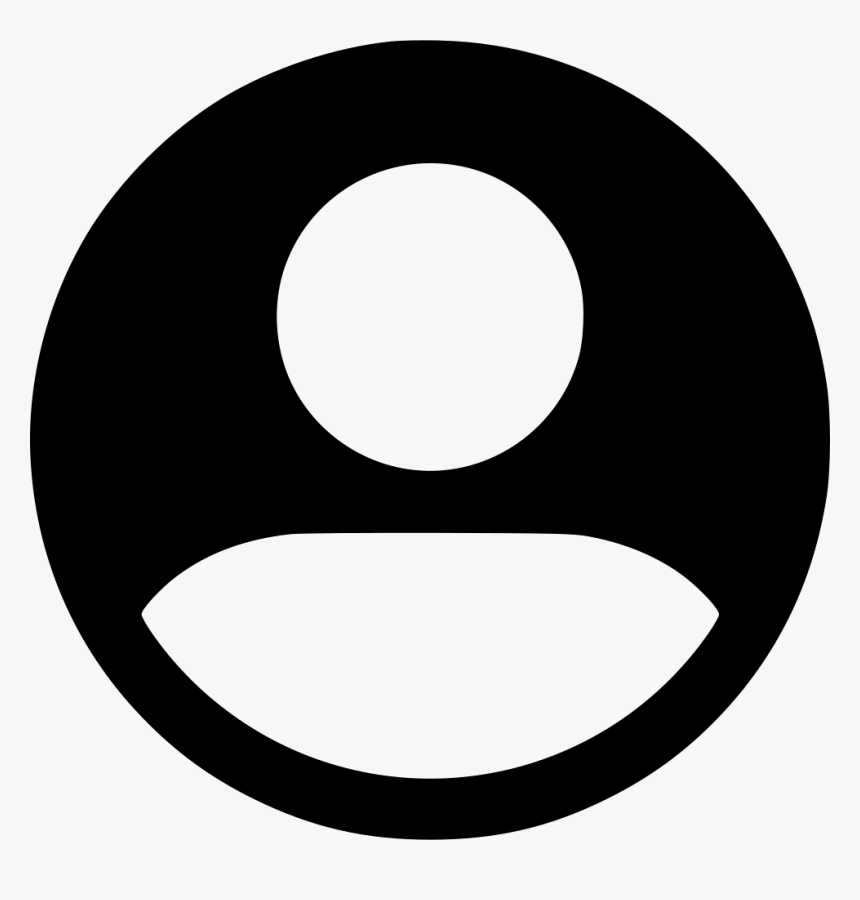
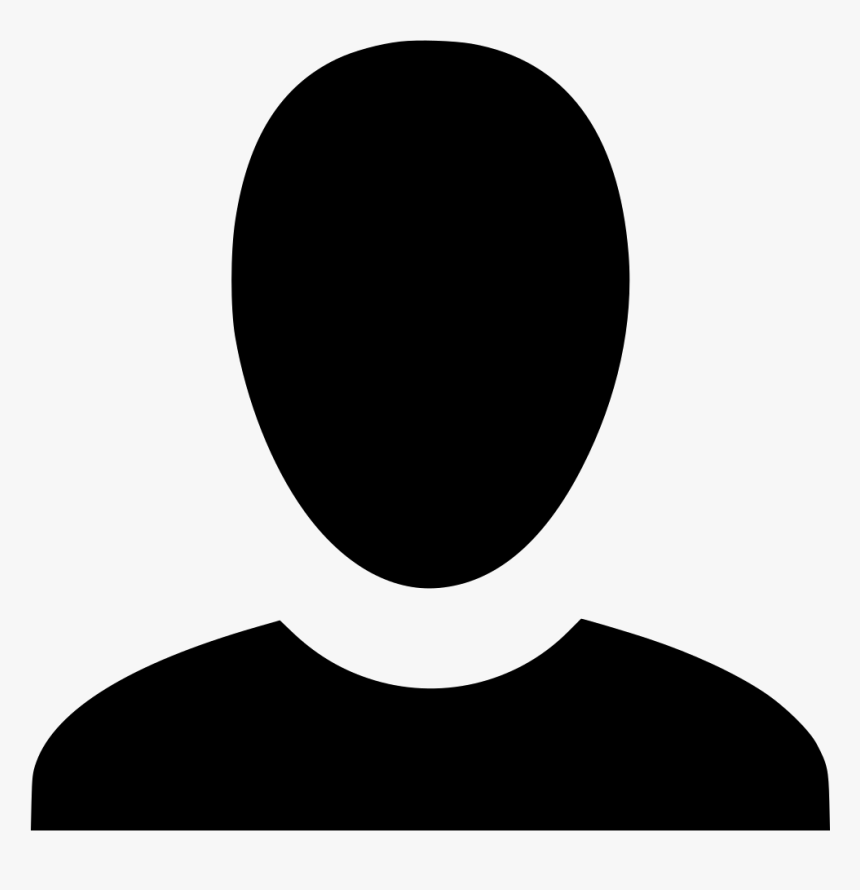
login con usuarios

diff --git a/src/components/Friends.js b/src/components/Friends.js
@@ -1,34 +1,9 @@
-import React,{useState, useEffect, Component} from 'react';
+import React,{Component} from 'react';
 import '../css/main.css'
 import Friend from './Friend';
 import firebase from '../config/firebase'
 
 class Friends extends Component {
-/*useEffect(() => {
-    fetchFriends()
-    .then(
-        (error) => {
-            console.log(error)
-        }
-    )},[]);
-    
-    const [friends, setFriends] = useState([]);
-    const [isLoaded, setIsLoaded] = useState(false)
-    
-    const fetchFriends = async () => {
-    const data = await fetch('https://my-json-server.typicode.com/angelrosmend/utn-friendlist/contacts');
-    
-    const friends = await data.json();
-    console.log(friends);
-    setFriends(friends);
-    setIsLoaded(true)
-    }
-
-    if(!isLoaded){
-        return (
-            <div className="loading">Loading...</div>
-        )
-    }else{    }*/
     constructor(props) {
         super(props)
     
@@ -38,38 +13,38 @@ class Friends extends Component {
         }
     }
     componentDidMount(){
-        firebase.database().ref('contacts/').once('value').then(snapshot=>{
-            console.log(snapshot.val())
+        firebase.db.collection("usuarios")
+        .get()
+        .then(querySnapshot =>{
+            console.log("loaded", querySnapshot.docs);
             this.setState({
-                friends: snapshot.val(),
+                friends: querySnapshot.docs,
                 isLoaded: true
             })
+
         })
     }
     render() {
+    const  loaded = this.state.isLoaded
+     if(!loaded){
+            return <div className="loading">Loading...</div>
+        }else{
+
     return (
         <div className="container-friends">
-           <div className="title">
+            <div className="title">
                 <h3>Compañeros</h3>
                 <hr></hr>
-<<<<<<< HEAD
             </div>
             <div className="friends-list">
-                {Object.keys(this.state.friends).map((k,v)=> (<Friend key={this.state.friends[k]} data={this.state.friends[k]}/>))}
-               {/* <ul>{friends.map(data => (<Friend key={data.id} data={data}/>))}</ul>*/}
+                {this.state.friends.map((doc)=> (<Friend id={doc.id} data={doc.data()}/>))}
             </div>
-=======
-           </div>
-           <div className="friends-list">
-                <ul>{friends.map(data => (<Friend key={data.id} data={data}/>))}</ul>
-           </div>
->>>>>>> 12c7898d873104f1923c9d56764a0489f9045157
         </div>
     )
-
-    }
-
+ }
+ }
 }
+
 
 
 export default Friends

diff --git a/src/layout/ProfileFriend.js b/src/layout/ProfileFriend.js
@@ -1,34 +1,33 @@
 import React,{useState, useEffect} from 'react';
+import firebase from 'firebase'
 import '../css/main.css'
+import avatar from '../img/avatar.png'
 
 
-function ProfileFriend({ match }) {
-    useEffect(() => {
-        fetchFriend();
-        console.log(match);
-       },[]);
+function ProfileFriend(props) {
+    const [friend, setFriend] = useState({})
+
+
+    useEffect(
+        () => {
+        const id = props.match.params.id;
+        firebase.db.doc("usuarios/"+id)
+        .get()
+        .then(doc =>{
+            setFriend( doc.data() )
+            console.log(doc.data())
+        })
+       },[]); 
       
-       const [friend, setFriend] = useState({})
-      
-       const fetchFriend = async () => {
-          const fetchFriend = await fetch(
-         `https://my-json-server.typicode.com/angelrosmend/utn-friendlist/contacts/${
-          match.params.id
-         }`
-        );
-        const friend = await fetchFriend.json();
-        setFriend(friend);
-        console.log(friend);
-       }
-
-
-
+       
  return (
   <div className="container-home">
   <div className="friend-profile">
-      <img src={friend.avatar}/>
-       <h2>{friend.nombre}</h2>
+      <img src={avatar}/>
+       <h2>{friend.nombre}
+          {friend.apellido}</h2>
        <p>{friend.ciudad}</p>
+       <p>Email: {friend.email}</p>
   </div>
   <div className="container-nav-page">
   <div className="container-profile-friend">
@@ -66,8 +65,8 @@ function ProfileFriend({ match }) {
 </div>
 
 </div>
-   </div>
-  </div>
+</div>
+</div>
  )
 }
 

diff --git a/src/layout/SignUp.js b/src/layout/SignUp.js
@@ -29,6 +29,8 @@ function handleSubmit(e) {
              nombre: form.nombre,
              apellido: form.apellido,
              email: form.email,
+             ciudad: form.ciudad,
+             curso: form.curso,
              userId: data.user.uid
          })
          .then((data)=>{
@@ -70,8 +72,12 @@ function handleSubmit(e) {
              <input type="text" name="nombre"   placeholder="Nombre"  value={form.nombre} onChange={handleChange}/>
              <input type="text" name="apellido" placeholder="Apellido" value={form.apellido} onChange={handleChange}/>
          </div>
+         <div className="input-group" > 
+             <input type="text" name="ciudad"   placeholder="Ciudad"  value={form.ciudad} onChange={handleChange}/>
+             <input type="text" name="email" placeholder="Email" value={form.email} onChange={handleChange}/>
+        </div>
          <div className="input-group">
-         <input type="text" name="email" placeholder="Email" value={form.email} onChange={handleChange}/>
+         <input type="text" name="curso" placeholder="Curso" value={form.curso} onChange={handleChange}/>
          <input type="password" name="password" placeholder="Contraseña" value={form.password} onChange={handleChange}/>
          </div>
 

diff --git a/src/layout/ProfileUser.js b/src/layout/ProfileUser.js
@@ -4,24 +4,27 @@ import {BrowserRouter as Router, Switch, Route} from 'react-router-dom';
 import About from '../components/About'
 import Projects from '../components/Projects'
 import Friends from '../components/Friends'
-import photo from '../img/photo.png'
+import avatar from '../img/avatar.png'
 
 function ProfileUser() {
-return (
-<Fragment>
- <div className="user-profile">
- <img src={photo} />
- <h2>Angel J. Rosales</h2>
- <p>Buenos Aires</p>
+ return (
+  <Fragment>
+  <div className="user-profile">
+ <img src={avatar} />
+ <h2>Nombre Apellido</h2>
+ <p>Ciudad</p>
+ <p>Email: johndoe@test.com </p>
  </div>
  <div className="container-nav-page">
    <Switch>
-     <Route path="/home/user/profile" component={About}/>
-     <Route path="/home/user/projects" component={Projects}/>
-     <Route path="/home/user/friends" component={Friends}/>
+   <Route path="/home/user/profile" component={About}/>
+   <Route path="/home/user/projects" component={Projects}/>
+   <Route path="/home/user/friends" component={Friends}/>
    </Switch>
  </div>
-</Fragment>
- )};
+ </Fragment>
+
+ )
+}
 
 export default ProfileUser

diff --git a/src/components/Friend.js b/src/components/Friend.js
@@ -2,21 +2,22 @@ import React from 'react'
 import { Link } from 'react-router-dom'
 import Add from './Add'
 import '../css/main.css'
+import avatar from '../img/avatar.png'
 
 
-function Friend({data}) {
+function Friend({data, id}) {
     return (
      <li className="friend">
         <div className="avatar">
-            <img src={data.avatar}/>
+            <img src={avatar}/>
         </div>
         <div className="friend-info">
-        <Link className="link-friend-profile" to={`/home/friend/${data.id}`}>
-            <h5>{data.nombre}</h5>
+        <Link className="link-friend-profile" to={`/home/friend/`+id}>
+            <h5>{data.nombre} {data.apellido}</h5>
             </Link>
             <p>{data.ciudad}</p>
         </div>
-        <Add added={data.data} />
+        <Add />
 
      </li>
     )

diff --git a/src/index.js b/src/index.js
@@ -17,6 +17,7 @@ ReactDOM.render(
   document.getElementById('root')
 );
 
-
+// If you want your app to work offline and load faster, you can change
+// unregister() to register() below. Note this comes with some pitfalls.
 // Learn more about service workers: https://bit.ly/CRA-PWA
 serviceWorker.register();
